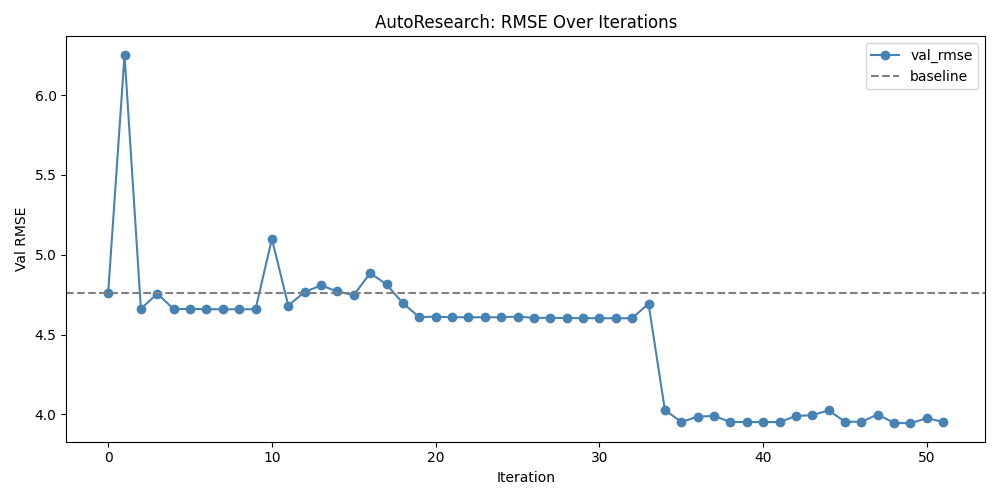
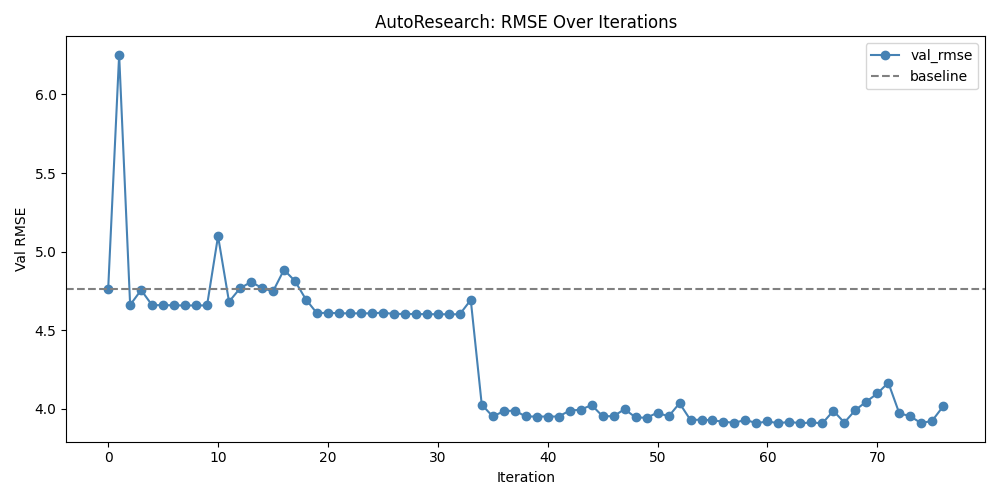
finalize all repo files, regenerate performance.png with all 73 experiments

diff --git a/experiments.md b/experiments.md
@@ -144,3 +144,5 @@ No instances.
 - **Huber objective is wrong loss for RMSE:** Optimizing pseudo-Huber → 4.167 (worst overall in session) — RMSE metric rewards squared-error optimization
 - **depth=2 with extreme regularization doesn't help:** lambda=200, alpha=5, depth=2 → 3.972 — feature interactions provide no lift over additive stumps
 - **Best model (2-yr avg):** XGBoost depth=1, n=500, lr=0.05, lambda=50, alpha=1.0 + PowerTransformer, no age, 6 features — RMSE 3.908619 (-0.119 vs 2-yr baseline). Model appears converged.
+- **Test RMSE: 4.160506** — model generalizes to unseen data, 12.6% improvement over original baseline of 4.759972
+- **Test R²: 0.3444** — model explains 34% of next-year OAA variance on completely unseen data

diff --git a/program.md b/program.md
@@ -43,7 +43,7 @@ You may use any combination of these variables in FEATURES:
 - `rel_league_bootup_distance` — first step relative to league average
 - `f_bootup_distance` — absolute first step distance
 - `sprint_speed` — player sprint speed in ft/sec
-- `age` — player age (important for predicting year-over-year change)
+- `age` — player age (note: found to consistently hurt performance — not recommended)
 
 ## Available Models
 